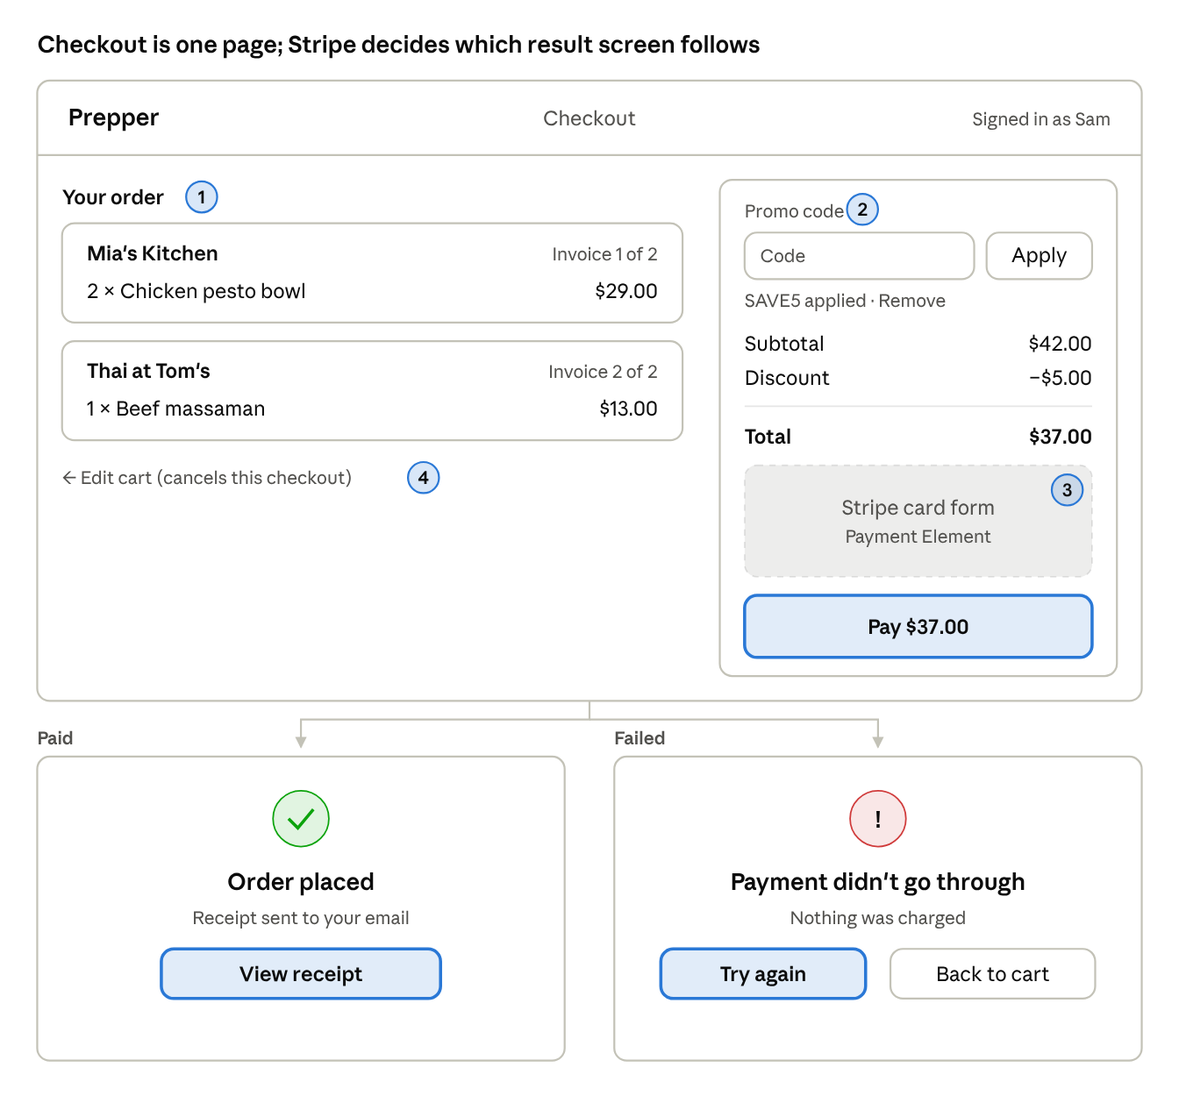
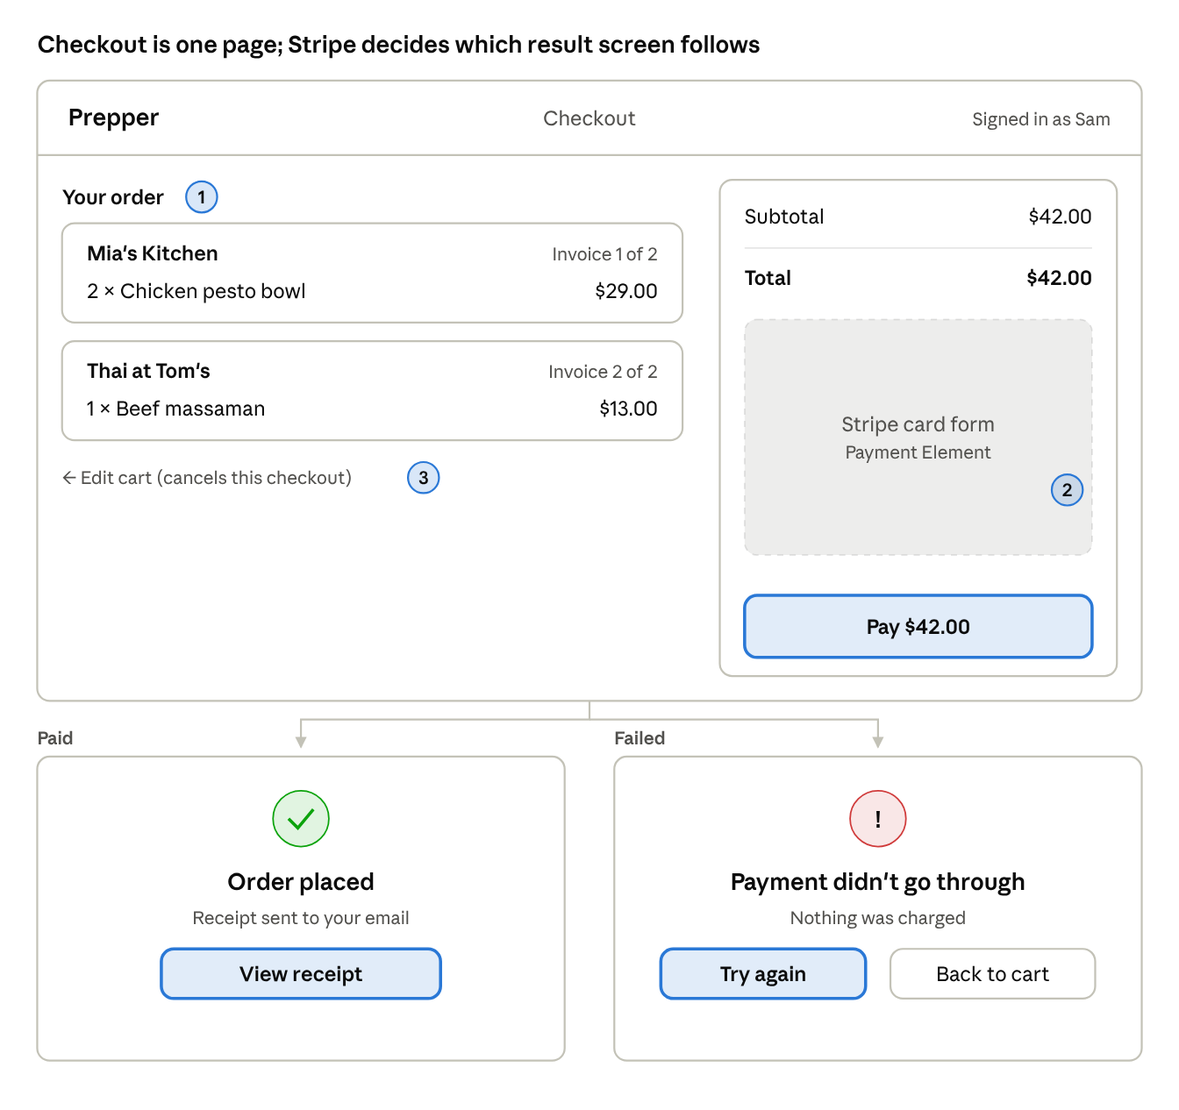
docs: remove promo code requirement

diff --git a/docs/plan/05-class-diagram.md b/docs/plan/05-class-diagram.md
@@ -60,13 +60,9 @@ classDiagram
     +uuid accountId
     +string guestTokenHash
     +CartStatus status
-    +string promoCode
-    +string stripePromotionCodeId
     +addItem(productId, quantity)
     +changeQuantity(productId, quantity)
     +removeItem(productId)
-    +enterPromoCode(code)
-    +removePromoCode()
     +startCheckout()
     +addGuestCartItems(guestCart)
   }
@@ -80,17 +76,10 @@ classDiagram
     +uuid buyerId
     +OrderStatus status
     +int subtotalCents
-    +int discountCents
     +int totalCents
     +markAsPaid()
     +cancelOrder(reason)
     +markAsCompleted()
-  }
-  class PromoRedemption {
-    +uuid orderId
-    +string stripePromotionCodeId
-    +string code
-    +int discountCents
   }
   class PrepperInvoice {
     +uuid id
@@ -127,7 +116,6 @@ classDiagram
   CartItem "*" --> "1" Product : refers to
   Cart "1" --> "0..1" Order : becomes
   Account "1" --> "*" Order : places
-  Order "1" --> "0..1" PromoRedemption : used a code
   Order "1" *-- "1..*" PrepperInvoice : split into
   PrepperInvoice "1" *-- "1..*" OrderLine : contains
   PrepperProfile "1" --> "*" PrepperInvoice : receives
@@ -161,8 +149,6 @@ classDiagram
 | Product         | `featureProduct` / `unfeatureProduct`       | admin                                       | Puts an active meal on the home page (sets `featuredAt`), or takes it off.                                                |
 | Review          | `leaveReview`                               | buyer                                       | Rates a meal from an order line whose invoice is `paid` or `handed_over`. One review per order line.                                                                                         |
 | Cart            | `addItem` / `changeQuantity` / `removeItem` | buyer or guest                              | Edits what's in the cart.                                                                                                 |
-| Cart            | `enterPromoCode`                            | buyer                                       | Checks the code with Stripe and shows the discount. See below.                                                            |
-| Cart            | `removePromoCode`                           | buyer                                       | Takes the code off.                                                                                                       |
 | Cart            | `startCheckout`                             | buyer                                       | Locks the cart, creates the order and its invoices, then calls `startPayment`.                                            |
 | Cart            | `addGuestCartItems`                         | the server, on sign-in                      | Moves items from the guest cart into the account's cart (same meal → quantities add up). The guest cart becomes `merged`. |
 | Order           | `markAsPaid`                                | the server, when Stripe confirms            | The order and its invoices become `paid`.                                                                                 |
@@ -172,33 +158,6 @@ classDiagram
 | PrepperInvoice | `payPrepper`                               | the server                                  | Sends the Prepper's share from our Stripe balance to their Stripe account (a Stripe "transfer"). Retried if it fails.    |
 | Payment         | `startPayment`                              | the server, from `startCheckout` or a retry | Creates the Stripe PaymentIntent and gives the browser its client secret, so the Payment Element can take the card.       |
 | Payment         | `updateFromStripe`                          | the webhook                                 | Stripe tells us the result (succeeded, declined, needs 3DS). We copy the status and, on success, call `markAsPaid`.       |
-
-## Promo codes live in Stripe
-
-There's no promo code table. Codes are made and turned off in the Stripe Dashboard.
-
-```mermaid
-sequenceDiagram
-  actor Admin
-  actor Buyer
-  participant Web
-  participant API
-  participant Stripe
-  Admin->>Stripe: Create coupon (e.g. 10% off) and promotion code SPRING10
-  Buyer->>Web: Types SPRING10
-  Web->>API: enterPromoCode("SPRING10")
-  API->>Stripe: Look up active promotion code SPRING10
-  Stripe-->>API: Coupon, expiry, minimum amount, use limit
-  API->>API: Check our own use count, work out discount in cents
-  API-->>Web: Discount preview
-  Note over API,Stripe: On payment success, the webhook writes a PromoRedemption
-```
-
-1. An admin creates a **coupon** (the discount: percent off or amount off) and a **promotion code** (the word buyers type) in the Stripe Dashboard.
-2. The buyer types the code. The API looks it up in Stripe: it must be active, not expired, in AUD, and over any minimum amount. If a check fails, the API sends back a reason code and nothing is applied.
-3. Stripe only applies and counts codes itself in Stripe Checkout, not with our own PaymentIntents. So the API works out the discount and charges the lower amount.
-4. For the same reason, Stripe doesn't count our uses. The API counts `PromoRedemption` rows against the code's use limit.
-5. The cart keeps the code and its Stripe ID. The webhook writes one `PromoRedemption` when payment succeeds.
 
 ## Status enums
 
@@ -240,15 +199,8 @@ Values are stored in the database as written.
 |                                | `processing`              | Stripe is working on it.                              |
 |                                | `succeeded`               | Money taken.                                          |
 |                                | `canceled`                | Payment stopped. Stripe spells it with one "l".       |
-| DiscountType                   | `percent_off`             | e.g. 10% off the subtotal.                            |
-| (read from Stripe, not stored) | `amount_off`              | e.g. $5.00 off the subtotal.                          |
 | ActorType                      | `account`                 | A person made the change.                             |
 |                                | `system`                  | A scheduled job made the change.                      |
 |                                | `stripe`                  | A Stripe webhook made the change.                     |
 
 Status moves are drawn in [Status changes](07-status-changes.md).
-
-## Docs
-
-- [Stripe: add discounts (PaymentIntents work out the amount on your server)](https://docs.stripe.com/payments/advanced/discounts)
-- [Stripe API: promotion codes](https://docs.stripe.com/api/promotion_codes)

diff --git a/docs/plan/08-stages.md b/docs/plan/08-stages.md
@@ -216,17 +216,6 @@ Each stage lists what to **build**, how you know it's **done**, what Claude will
   - Done: only own invoices; bad moves return 409.
   - Check: both updates in one transaction.
   - Critical path: add `@critical` scenario C4 (Prepper hands over, order completed).
-- [ ] **Check a promo code** (5.8)
-  - Build: `promo_redemptions` table; `promoCode` and `stripePromotionCodeId` on carts; enter and remove a code on the cart. The API looks the code up in Stripe (active, not expired, AUD, minimum amount), counts our own uses against its limit, and works out the discount.
-  - Done: each rule tested with mocked Stripe replies; one code per cart; discount never above the subtotal; each failed check returns 422 with its reason code.
-  - Reason codes: `promo_not_found` (no active code in Stripe), `promo_expired`, `promo_already_used` (our use count has reached the code's limit), `promo_minimum_not_met`, `promo_wrong_currency`. Stripe's lookup doesn't return an error code for these, so the API maps what Stripe sends back to these codes.
-  - Check: discount maths in cents, in one function; Stripe secret key used only on the server.
-  - Docs: [Add discounts](https://docs.stripe.com/payments/advanced/discounts), [Promotion codes API](https://docs.stripe.com/api/promotion_codes)
-- [ ] **Use a promo code** (5.9)
-  - Build: show the discount in the cart; recheck the code with Stripe at checkout and charge the lower amount; split the discount across invoices; write the `PromoRedemption` when payment succeeds.
-  - Done: shares add up exactly; the use limit holds when two people check out at once.
-  - Check: where the leftover cent goes; each Prepper is paid their full invoice subtotal; the platform's Stripe balance covers the discount gap.
-  - Critical path: add release scenario R7 (promo code).
 
 ## Phase 6 — Buyer extras
 
@@ -238,7 +227,7 @@ Each stage lists what to **build**, how you know it's **done**, what Claude will
   - Build: review a product you've paid for, once; show averages.
   - Done: non-buyers and repeat reviews rejected.
   - Check: eligibility checked through the order line.
-  - Critical path: add release scenario R8 (reviews).
+  - Critical path: add release scenario R7 (reviews).
 - [ ] **Favourites** (6.3)
   - Build: favourite Preppers and products; favourites page.
   - Done: toggling twice is safe; only own favourites shown.
@@ -254,7 +243,7 @@ Each stage lists what to **build**, how you know it's **done**, what Claude will
   - Build: invite an admin (name and email), edit, deactivate and reactivate buyer and Prepper accounts; log every admin action.
   - Done: each action tested and logged.
   - Check: admin accounts can't be deactivated; owners can't deactivate their own account; inviting an email that already has an account fails with 409; nothing is deleted.
-  - Critical path: add release scenario R10 (deactivated account can't sign in).
+  - Critical path: add release scenario R9 (deactivated account can't sign in).
 - [ ] **Purchases list** (7.3)
   - Build: orders filtered by date, status and Prepper.
   - Done: each filter tested.
@@ -264,18 +253,14 @@ Each stage lists what to **build**, how you know it's **done**, what Claude will
   - Done: flagged products disappear from browse; email queued.
   - Check: email sent only after the save succeeds.
   - Docs: [Resend with Node.js](https://resend.com/docs/send-with-nodejs)
-  - Critical path: add release scenario R9 (flagged meal leaves browse).
+  - Critical path: add release scenario R8 (flagged meal leaves browse).
 - [ ] **Prepper checks queue** (7.5)
   - Build: list of `pending_review` Preppers; view licence file; approve or reject with reason; email the result.
   - Done: approve makes the Prepper public; reject needs a reason.
   - Check: file links expire quickly.
   - Docs: [Resend with Node.js](https://resend.com/docs/send-with-nodejs)
   - Critical path: add `@critical` scenario C5 (Prepper approved, appears in browse).
-- [ ] **Promo code report** (7.6)
-  - Build: table of each code's uses and total discount, from `promo_redemptions`; link to the code in the Stripe Dashboard.
-  - Done: admin only; counts match the redemption rows.
-  - Check: dates shown in Brisbane time. Codes are created and turned off in Stripe, not here.
-- [ ] **Detail views** (7.7)
+- [ ] **Detail views** (7.6)
   - Build: meal, buyer and Prepper detail pages, opened by clicking a row in the lists (W13, W15 in [Screens](14-screens.md)). Meals: flag, unflag, feature. Buyers and Preppers: deactivate with a reason, reactivate. Pending Preppers: licence file, approve, reject with a reason.
   - Done: each page and action tested; admin accounts never show deactivate.
   - Check: admin only; every action logged; emails sent only after the save.

diff --git a/docs/plan/14-screens.md b/docs/plan/14-screens.md
@@ -106,9 +106,8 @@ One page to review and pay, then a paid or failed screen (Phase 5).
 ![W7 Checkout · review, pay, result](screens/w07-checkout.png)
 
 1. **Your order**, split into one box per prepper. Each box becomes that prepper's invoice. Prices come from the server, not the cart in the browser.
-2. **Promo code**: one per order. Apply checks it with Stripe; a bad code shows why under the field. The discount never goes above the subtotal.
-3. **Stripe Payment Element** holds the card fields. Pay starts the Stripe payment; the button shows a spinner and can't be pressed twice.
-4. **Edit cart** goes back to the cart drawer and cancels this pending order, so the cart unlocks.
+2. **Stripe Payment Element** holds the card fields. Pay starts the Stripe payment; the button shows a spinner and can't be pressed twice.
+3. **Edit cart** goes back to the cart drawer and cancels this pending order, so the cart unlocks.
 
 After Pay:
 
@@ -135,7 +134,7 @@ One order, shown the way it was paid: one block per prepper (stages 5.6 and 6.2)
 1. **One block per prepper invoice**, with each line's name and price as they were at checkout. Archived meals still show.
 2. **Status per invoice**: Paid, then Handed over once the prepper confirms.
 3. **Write review** opens this dialog: 1 to 5 stars and an optional comment. One review per line. Only shown when the invoice is paid or handed over; after posting, the button becomes "Reviewed".
-4. **Totals** show the promo code used and what was paid.
+4. **Totals** show what was paid.
 
 ## W10 Prepper sign-up
 
@@ -230,7 +229,7 @@ Clicking a prepper in W14 opens this page. For a pending prepper it shows the li
 
 ## Plan changes for these screens
 
-All nine are decided and now in the plan: stages 1.3, 3.5, 3.6, 7.1, 7.4 and 7.7, the Product entity, the class diagram and the business rules.
+All nine are decided and now in the plan: stages 1.3, 3.5, 3.6, 7.1, 7.4 and 7.6, the Product entity, the class diagram and the business rules.
 
 - [x] **1. Featured meals.** Add `featuredAt` to Product (empty = not featured). Admins set it with Feature / Unfeature in the Meals tab (stage 7.4). Home shows the 4 most recently featured. Until Phase 7, seed a few.
 - [x] **2. Meals list API.** A new Phase 3 stage beside the prepper list (3.1): `GET /products` with search, dietary, cuisine, max price, distance, "delivers to me", sort and paging. Only active meals from verified preppers with payouts on.

diff --git a/docs/plan/11-decision-log.md b/docs/plan/11-decision-log.md
@@ -17,7 +17,6 @@ Questions raised during planning and how they were answered. Each answer is alre
 | App structure        | `web`, `api` and `e2e` are self-contained with their own dependencies. No shared package. The API's OpenAPI spec is the contract. Root holds docs only.      | [0009](../adr/0009-self-contained-apps.md)               |
 | Testing              | Critical paths as Playwright + playwright-bdd scenarios with video, in `e2e`.                                                                                | [0010](../adr/0010-playwright-bdd-critical-paths.md)     |
 | Delivery             | A yes/no plus a radius. No delivery fees.                                                                                                                    | —                                                        |
-| Promo codes          | In the first version. Made and turned off in the Stripe Dashboard; the API checks the typed code with Stripe, works out the discount and counts uses itself. The platform pays for the discount; Preppers are paid their full invoice subtotal. | [0011](../adr/0011-promo-codes-in-stripe.md)             |
 | Product images       | In the first version.                                                                                                                                        | —                                                        |
 | Food safety          | Extra sign-up step plus admin approval before a Prepper can sell.                                                                                           | —                                                        |
 | Nothing deleted      | Accounts are deactivated; products are hidden or archived. Nothing is hard-deleted.                                                                          | [0006](../adr/0006-status-transitions-and-event-log.md) |

diff --git a/docs/data-model/entities/prepper-invoice.md b/docs/data-model/entities/prepper-invoice.md
@@ -9,7 +9,6 @@
 | prepperId         | uuid              | FK → [PrepperProfile](prepper-profile.md) | one invoice per Prepper per order            |
 | status             | InvoiceStatus     |                                             | pending_payment, paid, handed_over, cancelled |
 | subtotalCents      | int               |                                             |                                               |
-| discountShareCents | int               |                                             | shares add up to the order discount           |
 | totalCents         | int               |                                             |                                               |
 | PrepperPayStatus  | PrepperPayStatus |                                             | pending, sent, failed                         |
 | stripeTransferId   | text              |                                             | optional                                      |
@@ -26,7 +25,7 @@ flowchart LR
   I -->|"contains 1 or more"| OL[OrderLine]
 ```
 
-- **Does:** one Prepper's share of an order, and their payout. The payout is always the subtotal; the discount share is kept for reports only.
-- **Checks:** one per Prepper per order; discount shares add up exactly to the order discount; only the owning Prepper can mark it `handed_over`, and only once `paid`.
+- **Does:** one Prepper's share of an order, and their payout. The payout is the subtotal.
+- **Checks:** one per Prepper per order; only the owning Prepper can mark it `handed_over`, and only once `paid`.
 - **Built in:** 5.1, 5.5, 5.7, 8.1
 - [Back to data model](../../plan/06-data-model.md)

diff --git a/docs/plan/04-business-rules.md b/docs/plan/04-business-rules.md
@@ -45,18 +45,8 @@ The server enforces every rule below. Numbers in brackets are the stages that bu
 - Names and prices are frozen on each order line at checkout. (5.1)
 - Only Stripe's webhook can mark an order paid. (5.5)
 - Editing the cart cancels a pending order. Unpaid orders are cancelled after 24 hours. (5.1, 8.1)
-- Each Prepper is paid their invoice subtotal after payment, whatever discount was used; failed payouts are retried. (5.5, 8.1)
+- Each Prepper is paid their invoice subtotal after payment; failed payouts are retried. (5.5, 8.1)
 - No refunds in the first version.
-
-**Promo codes**
-
-- Codes are created and turned off by an admin in the Stripe Dashboard. The app doesn't store codes. (5.8)
-- One code per order. Stripe must say it's active, not expired, in AUD and over any minimum amount. (5.8)
-- Our own count of uses must be under the code's limit. Stripe doesn't count uses for our payments. (5.8, 5.9)
-- The discount never goes above the subtotal. (5.8)
-- The discount is split across invoices by their share of the subtotal; the shares add up exactly. (5.9)
-- The platform pays for the discount. The buyer pays the lower order total, and each Prepper is still paid their full invoice subtotal. (5.9)
-- A code that fails any check is refused with a reason code, and the web app shows the message under the field. Nothing is applied. (5.8)
 
 **Handing over meals**
 

diff --git a/docs/data-model/entities/cart.md b/docs/data-model/entities/cart.md
@@ -8,8 +8,6 @@
 | accountId | uuid | FK → [Account](account.md) | empty for guests |
 | guestTokenHash | text | UK | empty for signed-in users |
 | status | CartStatus |  | active, checking_out, ordered, merged, abandoned |
-| promoCode | text |  | optional; the code the buyer typed |
-| stripePromotionCodeId | text |  | optional; Stripe's ID for that code |
 | createdAt | timestamptz |  |  |
 | updatedAt | timestamptz |  | changes on every cart edit; guest carts untouched for 1 hour are abandoned from this |
 
@@ -19,11 +17,10 @@
 flowchart LR
   C[Cart] -->|"belongs to 0 or 1"| A[Account]
   C -->|"holds many"| CI[CartItem]
-  C -.->|"checks code with"| S[Stripe promotion code]
   C -->|"becomes 0 or 1"| O[Order]
 ```
 
 - **Does:** holds what a buyer or guest wants to buy.
-- **Checks:** has either an account or a guest token, never both; one active cart per account; no changes while `checking_out`; a promo code is rechecked with Stripe at checkout; subtotal worked out when read.
-- **Built in:** 4.1–4.3, 5.1, 5.9
+- **Checks:** has either an account or a guest token, never both; one active cart per account; no changes while `checking_out`; subtotal worked out when read.
+- **Built in:** 4.1–4.3, 5.1
 - [Back to data model](../../plan/06-data-model.md)

diff --git a/docs/plan/12-testing.md b/docs/plan/12-testing.md
@@ -76,10 +76,9 @@ Feature: Check out a cart from two Preppers
 | R4  | Checkout with a 3DS test card                                              | 5.4            |
 | R5  | Declined card, then a retry that succeeds                                  | 5.5            |
 | R6  | Editing the cart mid-checkout cancels the pending order                    | 5.5            |
-| R7  | Stripe promo code applied; totals and receipt correct                      | 5.9            |
-| R8  | Buyer reviews a meal they bought; can't review one they didn't             | 6.2            |
-| R9  | Admin flags a meal; it disappears from browse                              | 7.4            |
-| R10 | Admin deactivates an account; that person can't sign in                    | 7.2            |
+| R7  | Buyer reviews a meal they bought; can't review one they didn't             | 6.2            |
+| R8  | Admin flags a meal; it disappears from browse                              | 7.4            |
+| R9  | Admin deactivates an account; that person can't sign in                    | 7.2            |
 
 Prepper payout onboarding (5.2) happens on Stripe's own hosted pages, which change often. It's tested at the API level, plus one recorded manual run per release.
 

diff --git a/docs/plan/00-overview.md b/docs/plan/00-overview.md
@@ -15,9 +15,9 @@
 | 2   | Prepper      | profile, sign-up form, geocoding, products, images, food safety step                       |
 | 3   | Browsing     | Preppers list, filters, distance search, Prepper page with map, meals list, Home and Meals pages |
 | 4   | Cart         | guest cart, cart UI, merge on sign-in                                                      |
-| 5   | Checkout     | orders, Stripe payments and payouts, webhook, receipts, invoices, promo codes              |
+| 5   | Checkout     | orders, Stripe payments and payouts, webhook, receipts, invoices                           |
 | 6   | Buyer extras | profile, reviews, favourites                                                               |
-| 7   | Admin        | buyers and Preppers lists, purchases, meals and flagging, verification queue, promo code report, detail views |
+| 7   | Admin        | buyers and Preppers lists, purchases, meals and flagging, verification queue, detail views |
 | 8   | Hardening    | scheduled jobs, nightly release suite, rate limits and alerts                              |
 
 Scope for every stage is in [Stages](08-stages.md). The full instructions for a stage are written when you reach it, in [`../features/`](../features/).

diff --git a/docs/data-model/entities/order.md b/docs/data-model/entities/order.md
@@ -9,8 +9,7 @@
 | cartId        | uuid        | FK → [Cart](cart.md), UK   | one order per cart                          |
 | status        | OrderStatus |                            | pending_payment, paid, completed, cancelled |
 | subtotalCents | int         |                            |                                             |
-| discountCents | int         |                            |                                             |
-| totalCents    | int         |                            | subtotal minus discount                     |
+| totalCents    | int         |                            | same as subtotal                            |
 | paidAt        | timestamptz |                            | set by the webhook                          |
 | createdAt     | timestamptz |                            |                                             |
 | updatedAt     | timestamptz |                            |                                             |
@@ -23,7 +22,6 @@ flowchart LR
   O -->|"made from 1"| C[Cart]
   O -->|"splits into 1 or more"| I[PrepperInvoice]
   O -->|"paid by many"| PM[Payment]
-  O -->|"uses 0 or 1"| PR[PromoRedemption]
 ```
 
 - **Does:** the buyer's receipt for one checkout.

diff --git a/docs/plan/06-data-model.md b/docs/plan/06-data-model.md
@@ -20,7 +20,6 @@ flowchart TB
     O -->|splits into 1+| I[PrepperInvoice]
     I -->|contains 1+| OL[OrderLine]
     PP -->|receives many| I
-    O -->|used 0 or 1 code| PR[PromoRedemption]
   end
   subgraph Payments
     O -->|paid by many| PM[Payment]
@@ -77,7 +76,6 @@ Each name opens its entity doc: fields, types, keys, links and checks.
   - [Order](../data-model/entities/order.md) — the buyer's receipt
   - [PrepperInvoice](../data-model/entities/prepper-invoice.md) — one Prepper's share of an order
   - [OrderLine](../data-model/entities/order-line.md) — name and price frozen at purchase
-  - [PromoRedemption](../data-model/entities/promo-redemption.md) — one use of a Stripe promo code
 - **Payments and logs**
   - [Payment](../data-model/entities/payment.md) — the Stripe payment for an order
   - [StripeEvent](../data-model/entities/stripe-event.md) — webhooks already handled

diff --git a/api/README.md b/api/README.md
@@ -60,7 +60,7 @@ api/src/
 ├── routes/        route files grouped by feature
 ├── db/            Drizzle schema, migrations, seed
 ├── schemas/       zod schemas for every route (source of openapi.json)
-├── services/      business logic: checkout, status.ts (transition()), promo discount maths
+├── services/      business logic: checkout, status.ts (transition())
 ├── integrations/  Stripe, Supabase, Google, Resend clients
 └── plugins/       session, errors, request ID, rate limits
 ```
